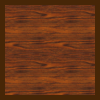
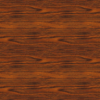
obstacles redo, levels added

diff --git a/functions.cpp b/functions.cpp
@@ -26,23 +26,11 @@ int initSDL(SDL_Variables& vars) {
 	}
 	return 0;
 }
-int initBall(SDL_Variables vars, Ball &ball)
+int initBall(SDL_Variables vars, Ball &ball, Level& level)
 {
 	const char* ballImagePath = "assets/ball.png";
 
-	ball.x = SCREEN_WIDTH/2;
-	ball.xPosBuffer = 0;
-	
-	ball.y = SCREEN_HEIGHT/2;
-	ball.yPosBuffer = 0;
-
-	ball.size = 24;
-	ball.radius = ball.size / 2;
-
-	ball.Xspeed = ball.Yspeed = 0;
-
-	ball.isMoving = false;
-	ball.drawArrow = false;
+	ballSet(ball, level);
 
 	SDL_Rect temp;
 	temp.x = ball.x - ball.radius;
@@ -60,15 +48,9 @@ int initBall(SDL_Variables vars, Ball &ball)
 
 	return 0;
 }
-int initHole(Hole& hole, SDL_Variables vars) {
-	hole.x = 40;
-	hole.y = 140;
-	hole.boxModel.x = hole.drawModel.x = hole.x - hole.radius;
-	hole.boxModel.y = hole.y - hole.radius;
-	hole.boxModel.w = hole.boxModel.h = hole.drawModel.w= hole.size;
-	hole.drawModel.h = 2 * hole.size;
-	hole.drawModel.y = hole.boxModel.y - hole.size;
-
+int initHole(Hole& hole, SDL_Variables vars, Level& level) 
+{
+	holeSetPosition(hole, level);
 	const char* holeImagePath = "assets/hole.png";
 
 	SDL_Surface* tempSurface = IMG_Load(holeImagePath);
@@ -79,6 +61,31 @@ int initHole(Hole& hole, SDL_Variables vars) {
 	}
 	SDL_FreeSurface(tempSurface);
 	return 0;
+}
+void holeSetPosition(Hole& hole, Level level) {
+	hole.x = level.holePos.x;
+	hole.y = level.holePos.y;
+	hole.boxModel.x = hole.drawModel.x = hole.x - hole.radius;
+	hole.boxModel.y = hole.y - hole.radius;
+	hole.boxModel.w = hole.boxModel.h = hole.drawModel.w = hole.size;
+	hole.drawModel.h = 2 * hole.size;
+	hole.drawModel.y = hole.boxModel.y - hole.size;
+}
+void ballSet(Ball& ball, Level level)
+{
+	ball.x = level.ballPos.x;
+	ball.xPosBuffer = 0;
+
+	ball.y = level.ballPos.y;
+	ball.yPosBuffer = 0;
+
+	ball.size = 24;
+	ball.radius = ball.size / 2;
+
+	ball.Xspeed = ball.Yspeed = 0;
+
+	ball.isMoving = false;
+	ball.drawArrow = false;
 }
 
 void ballPositionUpdate(Ball& ball, double frameTime) {
@@ -280,9 +287,9 @@ void drawBackground(SDL_Renderer* renderer) {
 int gameStart(SDL_Variables& SDLvariables, Ball& ball, Hole& hole, Level& level)
 {
 	if (initSDL(SDLvariables) < 0) return -1;
-	if (initBall(SDLvariables, ball) < 0) return -1;
-	if (initHole(hole, SDLvariables) < 0) return -1;
 	loadLevel(level);
+	if (initBall(SDLvariables, ball, level) < 0) return -1;
+	if (initHole(hole, SDLvariables, level) < 0) return -1;
 	return 1;
 }
 void gameRender(SDL_Variables& SDLvariables, Ball& ball, Hole& hole, Level level)
@@ -318,7 +325,7 @@ void gameHandleEvents(Ball& ball, bool& gameRunning, Player &player)
 		}
 	}
 }
-void gameUpdate(Ball& ball, double frameTime, Hole hole, Level level, Player& player)
+void gameUpdate(Ball& ball, double frameTime, Hole& hole, Level& level, Player& player)
 {
 	//ball update
 	ballPositionUpdate(ball, frameTime);
@@ -340,18 +347,20 @@ void gameUpdate(Ball& ball, double frameTime, Hole hole, Level level, Player& pl
 
 		//load next level
 		level.levelID++;
+		level.obstacles.clear();
 		loadLevel(level);
+		ballSet(ball, level);
+		holeSetPosition(hole, level);
 	}
 }
 
 void drawObstacles(SDL_Renderer* renderer, Level level) 
 {
-	SDL_Surface* obstacleSurface = IMG_Load("assets/obstacle.png");
-	SDL_Texture* temp = SDL_CreateTextureFromSurface(renderer, obstacleSurface);
 	for (SDL_Rect obstacle : level.obstacles) {
+		SDL_Surface* tempSurf = getObstacleSurface(obstacle);
+		SDL_Texture* temp = SDL_CreateTextureFromSurface(renderer, tempSurf);
 		SDL_RenderCopy(renderer, temp, NULL, &obstacle);
 	}
-	SDL_FreeSurface(obstacleSurface);
 }
 void obstaclesCollision(Ball& ball, Level level) 
 {
@@ -396,7 +405,7 @@ bool circleRectangleCollision(SDL_Rect obstacle, Ball& ball)
 		return true;
 	}
 
-	int disCorner = pow(disX - halfWidth, 2) + pow(disY-halfHeight, 2);
+	double disCorner = pow(disX - halfWidth, 2) + pow(disY-halfHeight, 2);
 	if (disCorner <= pow(r, 2)) {
 		ball.Xspeed *= -1;
 		ball.Yspeed *= -1;
@@ -447,7 +456,9 @@ void loadLevel(Level& level) {
 	while (file) {
 		file >> level.levelScore >> level.levelFreeShots;
 		file >> level.holePos.x >> level.holePos.y >> level.ballPos.x >> level.ballPos.y;
-		while (file) {
+		int obstaclesCount;
+		file >> obstaclesCount;
+		for(int x = 0; x < obstaclesCount;x++) {
 			SDL_Rect temp;
 			file >> temp.x >> temp.y >> temp.w >> temp.h;
 			level.obstacles.push_back(temp);
@@ -455,4 +466,31 @@ void loadLevel(Level& level) {
 	}
 
 	file.close();
+}
+
+
+SDL_Surface* getObstacleSurface(SDL_Rect rectangle) {
+	SDL_Surface* asset,* surface;
+
+	asset = IMG_Load("assets/obstacle.png");
+	int w = rectangle.w, h = rectangle.h;
+
+	Uint32 rmask, gmask, bmask;
+	rmask = 0xff000000;
+	gmask = 0x00ff0000;
+	bmask = 0x0000ff00;
+
+	surface = SDL_CreateRGBSurface(0, w, h, 32, rmask,gmask,bmask, SDL_ALPHA_OPAQUE);
+	
+	Uint32 color = SDL_MapRGB(surface->format, 88, 47, 14);
+	SDL_FillRect(surface, NULL, color);
+	
+	SDL_Rect destRect;
+	destRect.x = destRect.y = 10;
+	destRect.w = w - 20;
+	destRect.h = h - 20;
+
+	SDL_BlitScaled(asset, NULL, surface, &destRect);
+
+	return surface;
 }

diff --git a/functions.h b/functions.h
@@ -3,10 +3,10 @@
 #include <math.h>
 
 int initSDL(SDL_Variables& vars);
-int initBall(SDL_Variables vars, Ball& ball);
+int initBall(SDL_Variables vars, Ball& ball, Level& level);
 void calculateCollisions(Ball& ball);
 void shootBall(Ball& ball, Player& player);
-int initHole(Hole& hole, SDL_Variables vars);
+int initHole(Hole& hole, SDL_Variables vars, Level& level);
 void ballPositionUpdate(Ball& ball, double frameTime);
 void ballSpeedUpdate(Ball& ball);
 void ballBoxModelUpdate(Ball& ball);
@@ -18,7 +18,7 @@ void drawBackground(SDL_Renderer* renderer);
 int gameStart(SDL_Variables&SDLvariables, Ball& ball, Hole& hole, Level& level);
 void gameRender(SDL_Variables &SDLvariables, Ball &ball, Hole &hole, Level level);
 void gameHandleEvents(Ball& ball, bool& gameRunning, Player& player);
-void gameUpdate(Ball& ball, double frameTime, Hole hole, Level level, Player& player);
+void gameUpdate(Ball& ball, double frameTime, Hole& hole, Level& level, Player& player);
 
 
 void drawObstacles(SDL_Renderer* renderer, Level level);
@@ -26,3 +26,8 @@ void obstaclesCollision(Ball& ball, Level level);
 bool circleRectangleCollision(SDL_Rect obstacle, Ball& ball);
 bool pointInRectangle(SDL_Point p, SDL_Rect rect);
 void loadLevel(Level& level);
+
+void holeSetPosition(Hole& hole, Level level);
+void ballSet(Ball& ball, Level level);
+
+SDL_Surface* getObstacleSurface(SDL_Rect rectangle);
